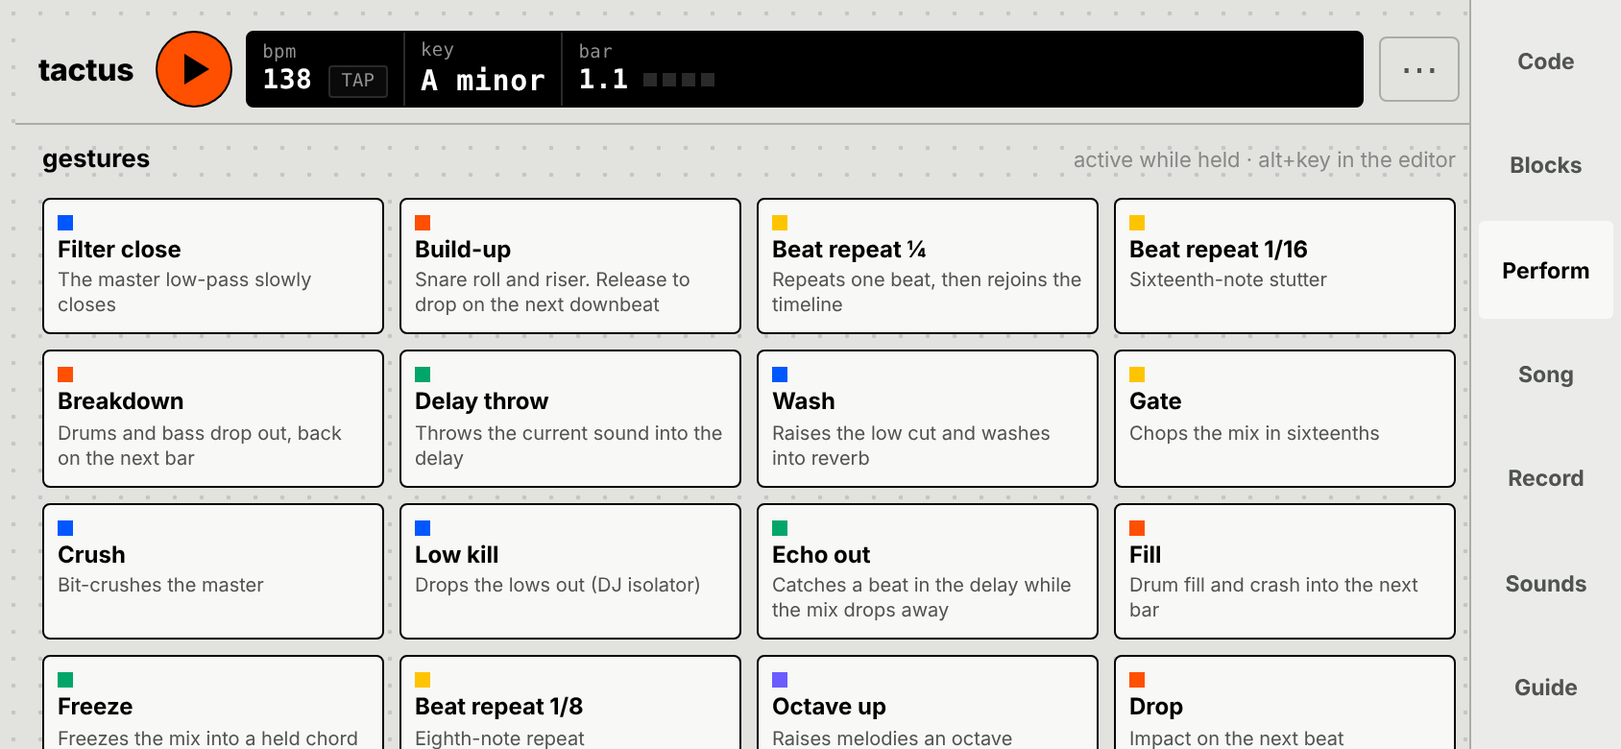
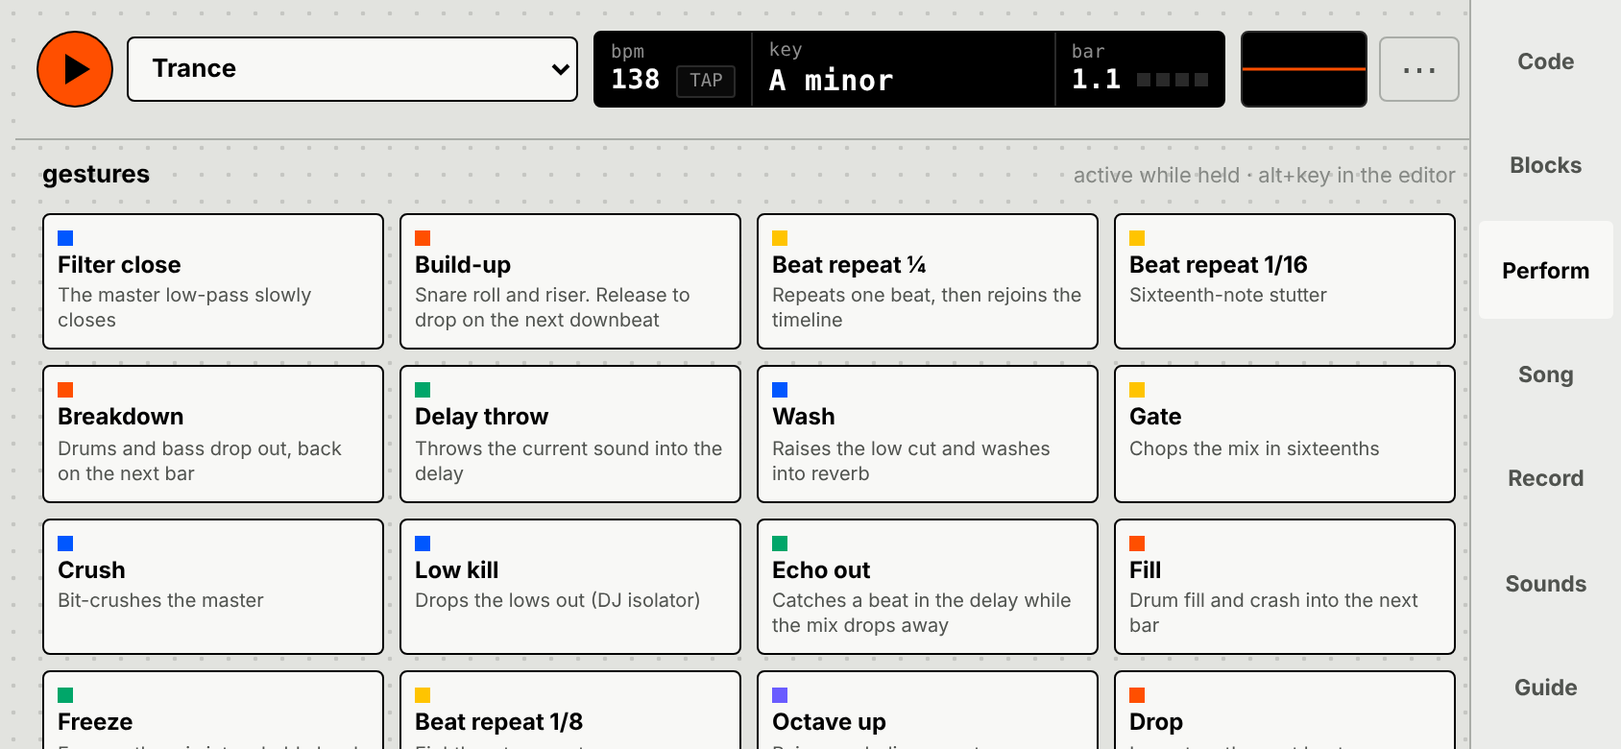
Phones: block rows read as a step sequencer; the top bar keeps the song
Folded cards sit on shared columns (light, name, the bar's steps, mute and
solo), so the rows line up like a step sequencer. A melody's steps show its
pitch and held notes, bar dots show where a longer pattern is, and a track
with no steps (a drone, a generator) gets a level bar. The light shows the
notes as they sound, by loudness, instead of the whole row flashing. Delete
moved into the opened card; opening a card folds the others and opens on the
bar its strip shows. Phrases fold too, and the tempo, key and chords fold
into one summary row.
The phone top bar keeps play, the song's name, the display and the scope; ⋯
opens a sheet with compose and share, live update, skin and language, and
GitHub. A scope sized from its own height no longer grows the bar.

Claude-Session: https://claude.ai/code/session_01UhxgQ8YRS99jUTENrawQMa

diff --git a/src/js/blocks.js b/src/js/blocks.js
@@ -578,8 +578,9 @@ function bkRender() {
       const g = bkLoad(L, p.pat, kind);
       BK.items.push(L);
       const body = g ? `<div class="bk-gridbox">${bkGridHTML(L, null, d0)}</div>` : `<div class="bk-chip"><code>${esc(p.pat.trim())}</code><button class="bk-link" data-act="goto">${esc(t('bkInCode'))}</button></div>`;
-      cards.push(`<article class="bk-card phrase" data-i="${i}" data-sort="card" style="--tc:${bkHue(p.name)}">
-        <header><span class="bk-ico" aria-hidden="true">🧩</span><span class="bk-nm"><b>$${esc(p.name)}</b><small>${esc(t('bkPhrase'))}</small></span><small class="bk-use">${esc(us.length ? t('bkPhraseUse', { list: us.map(u => u.name).join(', ') }) : t('bkPhraseNone'))}</small></header>
+      const pfold = document.body.classList.contains('mob') && !BK.unfold.has(key);
+      cards.push(`<article class="bk-card phrase${pfold ? ' fold' : ''}" data-i="${i}" data-sort="card" style="--tc:${bkHue(p.name)}">
+        <header><span class="bk-ico" aria-hidden="true">🧩</span>${pfold ? '<i class="bk-led" aria-hidden="true"></i>' : ''}<span class="bk-nm"><b>$${esc(p.name)}</b><small>${esc(t('bkPhrase'))}</small></span>${pfold && g ? bkMiniHTML(L) : ''}<button class="bk-fold" data-act="fold" aria-expanded="${!pfold}" aria-label="${esc(t(pfold ? 'bkUnfold' : 'bkFold'))} $${esc(p.name)}">${pfold ? '▸' : '▾'}</button><small class="bk-use">${esc(us.length ? t('bkPhraseUse', { list: us.map(u => u.name).join(', ') }) : t('bkPhraseNone'))}</small></header>
         ${r.errors.get(i) ? `<p class="bk-err">${esc(r.errors.get(i).msg)}</p>` : ''}${body}<div class="bk-foot"><p class="bk-why">${esc(t('bkPhraseHint'))}</p>${L.grid ? bkMoreMenu(L, null) : ''}</div></article>`);
       return;
     }
@@ -613,7 +614,7 @@ function bkRender() {
     // on a phone the cards are folded to their name row; one tap opens a card
     const fold = document.body.classList.contains('mob') && !BK.unfold.has(name);
     cards.push(`<article class="bk-card${fold ? ' fold' : ''}${err ? ' bad' : ''}${m ? ' muted' : ''}${L.rules.length ? ' ruled' : ''}" data-i="${i}" data-sort="card" style="--tc:${col}">
-      <header><span class="bk-ico" aria-hidden="true">${BK_ICON(def.inst)}</span><span class="bk-nm"><b>${esc(name)}</b><small>${esc(bkName(def.inst))}</small></span>${fold ? bkMiniHTML(L) : ''}
+      <header><span class="bk-ico" aria-hidden="true">${BK_ICON(def.inst)}</span>${fold ? '<i class="bk-led" aria-hidden="true"></i>' : ''}<span class="bk-nm"><b>${esc(name)}</b><small>${esc(bkName(def.inst))}</small></span>${fold ? bkMiniHTML(L) : ''}
         <button class="bk-fold" data-act="fold" aria-expanded="${!fold}" aria-label="${esc(t(fold ? 'bkUnfold' : 'bkFold'))} ${esc(name)}">${fold ? '▸' : '▾'}</button><button class="bk-tg${m ? ' on' : ''}" data-act="mute" aria-pressed="${m}" title="${esc(t('bkMute'))}">M</button><button class="bk-tg${so ? ' on' : ''}" data-act="solo" aria-pressed="${so}" title="${esc(t('bkSolo'))}">S</button><button class="bk-x" data-act="del" title="${esc(t('bkDel'))}" aria-label="${esc(t('bkDel'))} ${esc(name)}">×</button></header>
       ${err ? `<p class="bk-err">${esc(err.msg)}</p>` : ''}${body}${synOpen ? bkSynHTML(L) : ''}
       <div class="bk-foot">${synBtn}${rules ? `<span class="bk-rules" title="${esc(t('bkRuleHint'))}">${rules}</span>` : ''}${st}${more}</div>
@@ -642,12 +643,15 @@ function bkRender() {
   const songBox = `<section class="bk-song"><h3>${esc(t('bkSong'))}</h3><p class="bk-why">${esc(t('bkSongHint'))}</p>
       ${sceneRows}<div class="bk-row2"><button class="bk-add" data-act="sceneadd">${esc(t('bkSceneAdd'))}</button></div>
       ${BK.scenes.length ? (r.song ? `<div class="bk-trainrow"><b>${esc(t('bkTrain'))}</b>${train}<button class="bk-bar add" data-act="caradd" aria-label="${esc(t('bkCarAdd'))}" title="${esc(t('bkCarAdd'))}">+</button></div>` : `<button class="bk-add" data-act="songnew">${esc(t('bkSongNew'))}</button>`) : ''}</section>`;
-  boardEl.innerHTML = `<p class="bk-hint">${esc(t('bkHint'))}</p><div class="bk-top">
+  const mob = document.body.classList.contains('mob');
+  const progTxt = P.toks ? P.toks.map(v => { const c = chords.find(c => (P.names ? c.name : c.deg) === v); return c ? c.name : v; }).join(' ') : '';
+  const setSum = `<summary><b>♩ ${bpm}</b><span>${esc(NOTE_NAMES[BK.key.root] + ' ' + bkT('bkm_' + sc, sc))}</span>${progTxt ? `<span class="bk-sprog">${esc(progTxt)}</span>` : ''}</summary>`;
+  boardEl.innerHTML = `${mob ? `<details class="bk-set"${BK.setOpen ? ' open' : ''}>${setSum}` : ''}<p class="bk-hint">${esc(t('bkHint'))}</p><div class="bk-top">
       <label class="bk-tempo"><span aria-hidden="true">🐢</span><input type="range" id="bkBpm" min="60" max="180" step="1" value="${bpm}" aria-label="${esc(t('bkTempo'))}"><span aria-hidden="true">🐇</span><b>${bpm}</b></label>
       <span class="bk-key"><select id="bkRoot" aria-label="${esc(t('bkRoot'))}">${roots}</select><span class="seg">${moods}</span><select id="bkScale" aria-label="${esc(t('bkScale'))}">${scales}</select></span>
       <button class="bk-snd" data-act="clicks" aria-pressed="${BK.clicks}" title="${esc(t('bkClicks'))}" aria-label="${esc(t('bkClicks'))}">${BK.clicks ? '🔊' : '🔈'}</button>
     </div>
-    <div class="bk-chords"><b>${esc(t('bkChords'))}</b>${chordRow}</div>
+    <div class="bk-chords"><b>${esc(t('bkChords'))}</b>${chordRow}</div>${mob ? '</details>' : ''}
     <div class="bk-cards">${cards.join('') || `<p class="bk-empty">${esc(t('bkEmpty'))}</p>`}</div>
     <div class="bk-pal"><b>${esc(t('bkAdd'))}</b>${BK_PALETTE.map(([n]) => `<button class="bk-add" data-add="${n}"><span aria-hidden="true">${BK_ICON(n)}</span>${esc(bkName(n))}</button>`).join('')}</div>
     ${songBox}
@@ -1023,7 +1027,7 @@ function bkInit() {
   });
   boardEl.addEventListener('click', e => {
     // a folded card's name row opens it, as its ▸ does
-    const nm = !e.target.closest('button') && e.target.closest('.bk-card.fold > header'); if (nm) { const L = bkLine(nm); if (L) { toggleSet(BK.unfold, L.name); bkRender(); } return; }
+    const nm = !e.target.closest('button') && e.target.closest('.bk-card.fold > header'); if (nm) { const L = bkLine(nm); if (L) bkOpen(L, nm.querySelector('.bk-mini')); return; }
     const b = e.target.closest('button'); if (!b) return;
     if (b.dataset.pick != null) { bkMenu(b); return; }
     if (b.dataset.act === 'clicks') { BK.clicks = !BK.clicks; try { localStorage.setItem('tactus-bkclick', BK.clicks ? '1' : '0'); } catch (err) { } b.setAttribute('aria-pressed', BK.clicks); b.textContent = BK.clicks ? '🔊' : '🔈'; if (BK.clicks) bkClick('on'); return; }
@@ -1059,7 +1063,7 @@ function bkInit() {
     if (b.dataset.rx != null) { const r = L.rules[+b.dataset.rx]; bkWrite(L.i, p => { p.params = bkReplace(p.params, r, ''); }); return; }
     if (b.dataset.pdel != null) { const tr = L.train.slice(); tr.splice(+b.dataset.pdel, 1); bkWriteTrain(L, tr); return; }
     if (b.dataset.act === 'padd') { bkWriteTrain(L, [...L.train, L.train[L.train.length - 1]]); return; }
-    if (b.dataset.act === 'fold') { toggleSet(BK.unfold, L.name); bkRender(); return; }
+    if (b.dataset.act === 'fold') { if (BK.unfold.has(L.key)) { BK.unfold.delete(L.key); bkRender(); } else bkOpen(L, b.closest('header').querySelector('.bk-mini')); return; }
     if (b.dataset.act === 'syn') { toggleSet(BK.synOpen, L.name); bkRender(); return; }
     if (b.dataset.ft != null) { bkWrite(L.i, p => { p.params = bkSetWord(p.params, 'ftype', b.dataset.ft); }); bkSynHear(L); return; }
     if (b.dataset.act === 'mute') { toggleSet(S.muted, L.name); syncLoopVols(); render(); bkRender(); }
@@ -1308,19 +1312,42 @@ function bkSynInit() {
 }
 
 // ---------- folded cards show what is playing ----------
-// A folded card keeps a strip of the bar's steps (lit where the pattern has a note, with the step now playing) and
-// lights up on each note as it is heard, for as long as it sounds, so a phone's list of cards still shows the music.
+// On a phone the cards fold to one row each, laid out on the same columns so the rows read as a small step sequencer:
+// a light, the name, the bar's steps and mute/solo. The steps show where the notes are (for a melody, how high, and
+// how long they are held), the step now playing, and dots for the bar when the pattern is longer than one. The light
+// is lit while the track's notes sound, brighter for louder ones; a track with no steps to show (a drone, a
+// generator) gets a level bar instead. Notes come from the scheduler as they are played (NOTE_LOG), so a muted track or
+// one left out of the scene stays dark.
 function bkMiniBars(L) {
   if (!L.grid || !(L.tok || L.notes)) return null;
-  const bars = Array.from({ length: L.bars }, () => new Set());
-  if (L.tok) L.tok.forEach((v, k) => { if (v !== '.' && v !== '_') bars[Math.floor(k / BK_STEPS)]?.add(k % BK_STEPS); });
-  else for (const o of L.notes) bars[Math.floor(o.s / BK_STEPS)]?.add(o.s % BK_STEPS);
+  const bars = Array.from({ length: L.bars }, () => Array(BK_STEPS).fill(null));
+  if (L.tok) { L.tok.forEach((v, k) => { if (v !== '.' && v !== '_') { const b = bars[Math.floor(k / BK_STEPS)]; if (b) b[k % BK_STEPS] = { on: 1, h: v === 'X' ? 1 : v === 'x?' ? 0.45 : 0.75 }; } }); return bars; }
+  // a melody: the top note of each onset, scaled between the lowest and highest the track plays
+  const tops = L.notes.map(o => { try { const ns = bkAtom(o.v, L); return ns.length ? Math.max(...ns) : null; } catch (e) { return null; } });
+  const vals = tops.filter(v => v != null), lo = vals.length ? Math.min(...vals) : 0, hi = vals.length ? Math.max(...vals) : 1;
+  L.notes.forEach((o, j) => {
+    const h = tops[j] == null || hi === lo ? 0.65 : 0.3 + 0.7 * (tops[j] - lo) / (hi - lo);
+    for (let q = 0; q < Math.max(1, o.len); q++) {
+      const at = o.s + q, b = bars[Math.floor(at / BK_STEPS)]; if (!b) continue;
+      const cur = b[at % BK_STEPS];
+      if (!cur || (q === 0 && !cur.on) || h > cur.h) b[at % BK_STEPS] = { on: q === 0 || (cur && cur.on) ? 1 : 0, h: Math.max(h, cur ? cur.h : 0) };
+    }
+  });
   return bars;
 }
+const bkCellHTML = (c, k) => `<i class="${c ? (c.on ? 'on' : 'hold') : ''}${(k & 3) === 0 ? ' b' : ''}" style="--h:${c ? c.h.toFixed(2) : 0}"></i>`;
 function bkMiniHTML(L) {
   L.mini = bkMiniBars(L);
-  const on = L.mini ? L.mini[0] : null;
-  return `<span class="bk-mini${on ? '' : ' free'}" aria-hidden="true">${on ? Array.from({ length: BK_STEPS }, (_, k) => `<i${on.has(k) ? ' class="on"' : ''}${(k & 3) === 0 ? ' data-b="1"' : ''}></i>`).join('') : '<i></i>'}</span>`;
+  if (!L.mini) return `<span class="bk-mini free" aria-hidden="true"><span class="bk-mlvl"><i></i></span></span>`;
+  const dots = L.bars > 1 ? `<span class="bk-mbars">${Array.from({ length: Math.min(L.bars, 16) }, (_, j) => `<i${j ? '' : ' class="cur"'}></i>`).join('')}</span>` : '';
+  return `<span class="bk-mini" aria-hidden="true" data-bar="0"><span class="bk-mcells">${L.mini[0].map(bkCellHTML).join('')}</span>${dots}</span>`;
+}
+// open one folded card (the others fold: one open card keeps the list readable), on the bar its strip is showing
+function bkOpen(L, strip) {
+  if (document.body.classList.contains('mob')) BK.unfold = new Set([L.key]); else BK.unfold.add(L.key);
+  if (strip && strip.dataset.bar != null && L.bars > 1) { L.page = +strip.dataset.bar; BK.pages.set(L.key, L.page); }
+  bkRender();
+  const card = boardEl.querySelector(`.bk-card[data-i="${L.i}"]`); if (card) card.scrollIntoView({ block: 'nearest', behavior: 'smooth' });
 }
 function bkHits(c) {
   const folded = BK.view !== 'code' && boardEl.querySelector('.bk-card.fold');
@@ -1332,26 +1359,33 @@ function bkHits(c) {
     if (h.t > now) { keep.push(h); continue; }
     if (now - h.t > 0.25) continue;
     const L = BK.items.find(x => x.name === h.n), card = L && boardEl.querySelector(`.bk-card.fold[data-i="${L.i}"]`); if (!card) continue;
-    const ico = card.querySelector('.bk-ico'), a = Math.min(1.35, 1.08 + 0.2 * Math.min(1, h.v));
-    if (ico && ico.animate) ico.animate([{ transform: `scale(${a})` }, { transform: 'scale(1)' }], { duration: 200, easing: 'cubic-bezier(.2,.8,.2,1)' });
-    BK.lit.set(L.name, Math.max(BK.lit.get(L.name) || 0, h.t + Math.max(0.09, Math.min(h.d, 4))));
+    const v = Math.max(0.35, Math.min(1, h.v));
+    card.style.setProperty('--hv', v.toFixed(2));
+    BK.lit.set(L.name, Math.max(BK.lit.get(L.name) || 0, h.t + Math.max(0.08, Math.min(h.d, 4))));
     card.classList.add('sounding');
   }
   NOTE_LOG.q = keep;
   for (const [n, until] of BK.lit) if (now > until) { BK.lit.delete(n); const L = BK.items.find(x => x.name === n), card = L && boardEl.querySelector(`.bk-card[data-i="${L.i}"]`); if (card) card.classList.remove('sounding'); }
-  // the strip: the bar being played and the step now
   if (c < 0) return;
+  // the strip: the bar being played and the step now
   const k = Math.floor(mod(c, 1) * BK_STEPS), pb = Math.floor(c - patOrigin(c) + 1e-9);
   for (const L of BK.items) {
-    if (!L.mini) continue;
+    // a phrase plays inside other tracks, at their places: its strip stays a picture of its notes
+    if (!L.mini || L.phrase) continue;
     const strip = boardEl.querySelector(`.bk-card.fold[data-i="${L.i}"] .bk-mini`); if (!strip) continue;
     const bar = mod(pb, L.bars), sig = bar + ':' + k; if (strip.dataset.sig === sig) continue;
-    if (strip.dataset.bar !== String(bar)) { strip.dataset.bar = bar; const on = L.mini[bar]; [...strip.children].forEach((x, j) => x.classList.toggle('on', on.has(j))); }
+    const cells = strip.firstElementChild.children;
+    if (strip.dataset.bar !== String(bar)) {
+      strip.dataset.bar = bar;
+      L.mini[bar].forEach((c2, j) => { cells[j].className = (c2 ? (c2.on ? 'on' : 'hold') : '') + ((j & 3) === 0 ? ' b' : ''); cells[j].style.setProperty('--h', c2 ? c2.h.toFixed(2) : 0); });
+      const dots = strip.querySelector('.bk-mbars'); if (dots) [...dots.children].forEach((d, j) => d.classList.toggle('cur', j === bar));
+    }
     strip.dataset.sig = sig;
     // its own class: bkTick clears every .ph when the step moves
-    const ph = strip.querySelector('.cur'); if (ph) ph.classList.remove('cur');
-    strip.children[k] && strip.children[k].classList.add('cur');
+    for (const x of cells) x.classList.remove('cur');
+    cells[k] && cells[k].classList.add('cur');
   }
 }
+boardEl.addEventListener('toggle', e => { if (e.target.classList && e.target.classList.contains('bk-set')) BK.setOpen = e.target.open; }, true);
 bkInit();
 bkSynInit();

diff --git a/src/app.html b/src/app.html
@@ -759,9 +759,28 @@ body[data-max="rack"] .pad { min-height: 96px; }
 body.mob { overflow: auto; }
 body.mob .app { height: auto; min-height: 100dvh; padding: 0 12px calc(var(--mtab, 0px) + 12px); gap: 8px; }
 body.mob.mland .app { padding-right: 76px; padding-bottom: 12px; }
-body.mob .top { position: sticky; top: 0; z-index: 40; margin: 0 -12px; padding: 8px 12px; gap: 8px; background: var(--body); border-bottom: 1px solid var(--line); flex-wrap: wrap; }
-body.mob:not(.mmore-on) .top > :not(.brand, .play, .lcd, .mmore, .queue) { display: none; }
-body.mob.mmore-on .top > .spacer { display: none; }
+/* the bar: play, the song's name and ⋯ on top; the display and the scope under them; the armed change when there is one */
+body.mob .top { position: sticky; top: 0; z-index: 40; margin: 0 -12px; padding: 8px 12px; background: var(--body); border-bottom: 1px solid var(--line);
+  display: grid; grid-template-columns: auto minmax(0, 1fr) 56px; grid-template-areas: "play song more" "lcd lcd scope" "queue queue queue"; gap: 8px; align-items: center; }
+body.mob .top > :not(.play, .preset, .mmore, .lcd, #scope, .queue) { display: none; }
+body.mob .top .play { grid-area: play; }
+body.mob .top .preset { grid-area: song; min-width: 0; width: 100%; max-width: none; font-weight: 700; }
+body.mob .top .mmore { grid-area: more; justify-self: stretch; }
+body.mob .top .lcd { grid-area: lcd; }
+body.mob .top #scope { grid-area: scope; width: 100%; height: 38px; display: block; }
+body.mob .top .queue { grid-area: queue; }
+body.mob.mland .top { grid-template-columns: auto minmax(0, 1fr) minmax(0, 1.4fr) 64px auto; grid-template-areas: "play song lcd scope more" "queue queue queue queue queue"; }
+body.mob .lcd .cell:nth-child(2) { flex: 1 1 auto; }
+body.mob .lcd output { overflow: hidden; text-overflow: ellipsis; }
+/* the sheet under ⋯ */
+.msheet { display: none; }
+body.mob .msheet:not([hidden]) { display: grid; gap: 0; position: fixed; z-index: 60; top: calc(var(--mtop, 0px) + 6px); right: 10px; left: 10px; max-width: 440px; margin-left: auto;
+  padding: 6px 12px; border-radius: var(--r-l); background: var(--raised); border: 1px solid var(--line); box-shadow: 0 12px 32px rgba(0, 0, 0, .18); }
+body.mob .msheet .msg { display: flex; flex-wrap: wrap; align-items: center; gap: 8px; padding: 10px 0; }
+body.mob .msheet .msg + .msg { border-top: 1px solid var(--line); }
+body.mob .msheet .msg:empty { display: none; }
+body.mob .msheet .skins span { display: inline; }
+body.mob .cmppop { z-index: 70; top: calc(var(--mtop, 0px) + 6px); }
 body.mob .brand .build, body.mob .brand .dsp { display: none; }
 body.mob .brand b { font-size: 16px; }
 body.mob .play { width: 38px; height: 38px; }
@@ -769,7 +788,6 @@ body.mob .lcd { flex: 1 1 auto; min-width: 0; }
 body.mob .lcd .cell { padding: 4px 8px; min-width: 0; }
 body.mob .lcd output { font-size: 14px; }
 body.mob .mmore { display: inline-grid; place-items: center; font-size: 20px; line-height: 1; padding: 6px 10px; }
-body.mob .queue { order: 9; flex-basis: 100%; }
 body.mob .mtabs { display: grid; grid-template-columns: repeat(7, minmax(0, 1fr)); position: fixed; left: 0; right: 0; bottom: 0; z-index: 50;
   padding: 6px 6px calc(6px + env(safe-area-inset-bottom)); gap: 3px; background: var(--panel); border-top: 1px solid var(--line); }
 body.mob .mtabs button { border: 0; background: transparent; color: var(--dim); font: inherit; font-size: 11.5px; font-weight: 700; padding: 9px 0; border-radius: var(--r-s); cursor: pointer; min-width: 0; white-space: nowrap; overflow: hidden; text-overflow: ellipsis; }
@@ -794,31 +812,53 @@ body.mob .pad { min-height: 78px; }
 body.mob .vizbar:not(.open) > :not([aria-pressed="true"]) { display: none; }
 body.mob .vizbar.open { left: 8px; right: 8px; max-width: none; justify-content: flex-start; }
 /* block cards fold to their name row */
-body.mob .bk-fold { display: inline-grid; place-items: center; border: 0; background: transparent; color: var(--dim); font-size: 15px; width: 30px; height: 30px; cursor: pointer; order: -1; }
-body.mob .bk-card.fold > :not(header) { display: none; }
-body.mob .bk-card.fold > header { cursor: pointer; }
-body.mob .bk-card.fold { padding-block: 5px; transition: background-color .12s; }
-body.mob .bk-card.fold .bk-nm small { display: none; }
-/* the list never grows wider than the screen: the name gives way (…) and the strip takes what is left */
-body.mob .bk-cards { grid-template-columns: minmax(0, 1fr); }
+/* block cards fold to one row each, on shared columns so the rows read as a small step sequencer:
+   ▸ · light · name · the bar's steps · M S. Delete lives in the opened card. */
+.bk-mini, .bk-led { display: none; }
+body.mob .bk-fold { display: inline-grid; place-items: center; border: 0; background: transparent; color: var(--dim); font-size: 13px; width: 24px; height: 32px; cursor: pointer; padding: 0; }
+body.mob .bk-cards { grid-template-columns: minmax(0, 1fr); gap: 6px; }
 body.mob .bk-card, body.mob .bk-card > * { min-width: 0; }
-body.mob .bk-card.fold > header { gap: 6px; }
-body.mob .bk-card.fold .bk-nm { flex: 0 1 auto; overflow: hidden; }
-body.mob .bk-card.fold .bk-nm b { overflow: hidden; text-overflow: ellipsis; white-space: nowrap; }
-body.mob .bk-card.fold .bk-ico { flex: none; }
-body.mob .bk-card.fold header > button { flex: none; }
 body.mob .bk-gridbox { overflow-x: auto; }
-body.mob .bk-card.fold .bk-ico { display: inline-block; transform-origin: 50% 70%; }
-body.mob .bk-card.fold.sounding { background: color-mix(in srgb, var(--tc) 16%, var(--raised)); }
-body.mob .bk-card.fold.muted .bk-mini { opacity: .35; }
-.bk-mini { display: none; }
-body.mob .bk-card.fold .bk-mini { display: grid; grid-template-columns: repeat(16, minmax(0, 1fr)); gap: 2px; flex: 1 1 0; min-width: 48px; max-width: 150px; height: 14px; margin-inline: 2px auto; align-self: center; }
-body.mob .bk-mini i { border-radius: 2px; background: color-mix(in srgb, var(--fg) 8%, transparent); }
-body.mob .bk-mini i[data-b] { background: color-mix(in srgb, var(--fg) 14%, transparent); }
-body.mob .bk-mini i.on { background: color-mix(in srgb, var(--tc) 85%, var(--fg)); }
-body.mob .bk-mini i.cur { background: var(--fg); }
-body.mob .bk-mini i.on.cur { background: var(--tc); box-shadow: 0 0 0 1.5px var(--fg); }
-body.mob .bk-mini.free { display: none; }
+body.mob .bk-card.fold { padding: 4px 8px 4px 4px; gap: 0; }
+body.mob .bk-card.fold > :not(header) { display: none; }
+body.mob .bk-card.fold > header { display: grid; grid-template-columns: 24px 10px 74px minmax(0, 1fr) auto auto; align-items: center; column-gap: 6px; min-height: 36px; cursor: pointer; }
+body.mob .bk-card.fold .bk-fold { order: -3; }
+body.mob .bk-card.fold .bk-led { order: -2; }
+body.mob .bk-card.fold .bk-nm { order: -1; overflow: hidden; }
+body.mob .bk-card.fold :is(.bk-ico, .bk-nm small, .bk-x, .bk-use) { display: none; }
+body.mob .bk-card.phrase.fold > header { grid-template-columns: 24px 10px 74px minmax(0, 1fr); }
+body.mob .bk-card.phrase.fold .bk-led { visibility: hidden; }
+body.mob .bk-card.fold .bk-nm b { overflow: hidden; text-overflow: ellipsis; white-space: nowrap; font-size: 13px; }
+body.mob .bk-card.fold .bk-tg { width: 30px; height: 30px; padding: 0; }
+/* the light: lit while the notes sound, brighter for louder ones */
+body.mob .bk-led { display: block; width: 9px; height: 9px; border-radius: 50%; background: color-mix(in srgb, var(--tc) 22%, var(--line)); transition: background-color .18s, box-shadow .18s; }
+body.mob .bk-card.sounding .bk-led { background: var(--tc); box-shadow: 0 0 0 2px color-mix(in srgb, var(--tc) 30%, transparent), 0 0 calc(10px * var(--hv, 1)) var(--tc); transition-duration: .02s; }
+body.mob .bk-card.fold.muted :is(.bk-mini, .bk-nm) { opacity: .4; }
+/* the steps: lit where the notes are (a melody's height is its pitch, a held note is fainter), the step now in ink */
+body.mob .bk-mini { display: grid; gap: 2px; align-self: stretch; align-content: center; }
+body.mob .bk-mcells { display: grid; grid-template-columns: repeat(16, minmax(0, 1fr)); gap: 2px; height: 20px; align-items: end; }
+body.mob .bk-mcells i { height: 100%; border-radius: 2px; background: color-mix(in srgb, var(--fg) 7%, transparent); }
+body.mob .bk-mcells i.b { background: color-mix(in srgb, var(--fg) 13%, transparent); }
+body.mob .bk-mcells i:is(.on, .hold) { height: calc(100% * var(--h, 1)); background: color-mix(in srgb, var(--tc) 85%, var(--fg)); }
+body.mob .bk-mcells i.hold { background: color-mix(in srgb, var(--tc) 40%, transparent); }
+body.mob .bk-mcells i.cur { box-shadow: inset 0 -3px 0 var(--fg); }
+body.mob .bk-mcells i:is(.on, .hold).cur { background: var(--tc); box-shadow: 0 0 0 1.5px var(--fg); }
+body.mob .bk-mbars { display: flex; gap: 2px; height: 3px; min-width: 0; overflow: hidden; }
+body.mob .bk-mbars i { flex: 0 1 8px; min-width: 2px; border-radius: 2px; background: color-mix(in srgb, var(--fg) 15%, transparent); }
+body.mob .bk-mbars i.cur { background: var(--fg); }
+/* no steps to show (a drone, a generator): how loud it is right now */
+body.mob .bk-mlvl { display: block; height: 8px; border-radius: 4px; background: color-mix(in srgb, var(--fg) 8%, transparent); overflow: hidden; }
+body.mob .bk-mlvl i { display: block; height: 100%; width: 100%; transform-origin: left; transform: scaleX(0); background: var(--tc); transition: transform .35s ease-out; }
+body.mob .bk-card.sounding .bk-mlvl i { transform: scaleX(var(--hv, 1)); transition-duration: .03s; }
+/* the song's tempo, key and chords fold into one summary row above the cards */
+.bk-set > summary { display: flex; align-items: baseline; gap: 10px; padding: 6px 2px; cursor: pointer; font-size: 13px; color: var(--dim); list-style: none; }
+.bk-set > summary::-webkit-details-marker { display: none; }
+.bk-set > summary::before { content: '▸'; font-size: 11px; }
+.bk-set[open] > summary::before { content: '▾'; }
+.bk-set > summary b { color: var(--fg); font-family: var(--f-code); }
+.bk-set > summary .bk-sprog { font-family: var(--f-code); overflow: hidden; text-overflow: ellipsis; white-space: nowrap; min-width: 0; }
+.bk-set[open] { display: grid; gap: 10px; padding-bottom: 6px; }
+@media (prefers-reduced-motion: reduce) { body.mob .bk-led, body.mob .bk-mlvl i { transition: none; } }
 body.mob:not(.mland) .brand { display: none; }
 html:has(body.mob) { scroll-padding-top: calc(var(--mtop, 0px) + 8px); scroll-padding-bottom: calc(var(--mtab, 0px) + 8px); }
 /* the status line: only news (an error, a done) and then just above the tab bar, where it is seen */

diff --git a/src/js/mobile.js b/src/js/mobile.js
@@ -17,7 +17,12 @@ function mobBuild() {
   nav.innerHTML = MOB_TABS.map(n => `<button role="tab" data-mt="${n}" data-i18n="${lbl[n]}" aria-selected="false">${esc(t(lbl[n]))}</button>`).join('');
   app.appendChild(nav);
   nav.addEventListener('click', e => { const b = e.target.closest('[data-mt]'); if (b) mobTab(b.dataset.mt); });
-  // ⋯ in the top bar: the preset, compose, share, skins and language, folded away on a phone
+  // ⋯ in the top bar opens a sheet with what is not needed while playing: compose and share (things done to the
+  // piece), live update, skin and language (settings), GitHub and install. The song's name, the scope and the display
+  // stay in the bar: they say what is playing and that it is.
+  const sheet = document.createElement('div'); sheet.className = 'msheet'; sheet.id = 'msheet'; sheet.hidden = true;
+  sheet.innerHTML = '<div class="msg" data-g="piece"></div><div class="msg" data-g="set"></div><div class="msg" data-g="more"></div>';
+  document.querySelector('.top').after(sheet);
   const more = document.createElement('button'); more.className = 'btn ghost mmore'; more.id = 'mmore';
   more.setAttribute('aria-expanded', 'false'); more.setAttribute('data-i18n-aria', 'mMore'); more.setAttribute('aria-label', t('mMore')); more.textContent = '⋯';
   document.querySelector('.top .lcd').after(more);
@@ -34,8 +39,9 @@ function mobBuild() {
     if (!vb.classList.contains('open')) { e.stopPropagation(); e.preventDefault(); vb.classList.add('open'); return; }
     setTimeout(() => vb.classList.remove('open'), 0);
   }, true);
+  sheet.addEventListener('click', e => { if (e.target.closest('#shareBtn, #srcLink, .installBtn')) mobMore(false); });
   document.addEventListener('pointerdown', e => {
-    if (MOB.more && !e.target.closest('.top')) mobMore(false);
+    if (MOB.more && !e.target.closest('#mmore, #msheet, .cmppop, .sharedlg')) mobMore(false);
     const vb = document.getElementById('vizbar'); if (vb.classList.contains('open') && !e.target.closest('#vizbar')) vb.classList.remove('open');
   });
   document.addEventListener('keydown', e => { if (e.key === 'Escape' && MOB.max && !e.defaultPrevented) mobMax(''); });
@@ -44,7 +50,18 @@ function mobBuild() {
 function mobMore(on) {
   MOB.more = on; document.body.classList.toggle('mmore-on', on);
   const b = document.getElementById('mmore'); if (b) b.setAttribute('aria-expanded', on);
-  mobSize();
+  const sh = document.getElementById('msheet'); if (sh) sh.hidden = !(on && MOB.on);
+}
+// the top bar's extras move into the sheet on a phone and back to their places on a desktop (moving keeps their handlers)
+const MOB_SHEET = [['piece', '.top .cmpwrap'], ['piece', '#shareBtn'], ['set', '#auto'], ['set', '#skins'], ['set', '#lang'], ['more', '#srcLink'], ['more', '.top .installBtn']];
+function mobSheet(on) {
+  const sh = document.getElementById('msheet'); if (!sh) return;
+  for (const [g, sel] of MOB_SHEET) {
+    const el = MOB.moved && MOB.moved.get(sel) ? MOB.moved.get(sel).el : document.querySelector(sel); if (!el) continue;
+    MOB.moved = MOB.moved || new Map();
+    if (on && !MOB.moved.has(sel)) { const mark = document.createComment(sel); el.before(mark); MOB.moved.set(sel, { el, mark }); sh.querySelector(`[data-g="${g}"]`).appendChild(el); }
+    if (!on && MOB.moved.has(sel)) { const m = MOB.moved.get(sel); m.mark.replaceWith(m.el); MOB.moved.delete(sel); }
+  }
 }
 // the room left for the module: the window less the top bar and the tab bar
 function mobSize() {
@@ -69,6 +86,7 @@ function mobApply() {
   const on = MOB_MQ.matches, land = on && MOB_LAND.matches;
   const was = MOB.on; MOB.on = on; MOB.land = land;
   document.body.classList.toggle('mob', on); document.body.classList.toggle('mland', land);
+  mobSheet(on);
   if (on) {
     if (MOB.max) mobMax('');
     let n = MOB.tab; if (!was) try { n = localStorage.getItem('tactus-mtab') || 'code'; } catch (e) { }
